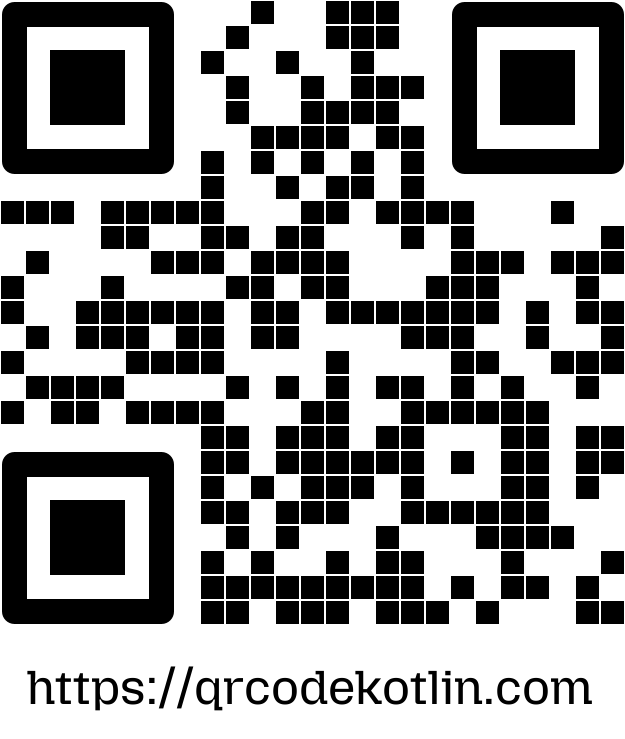
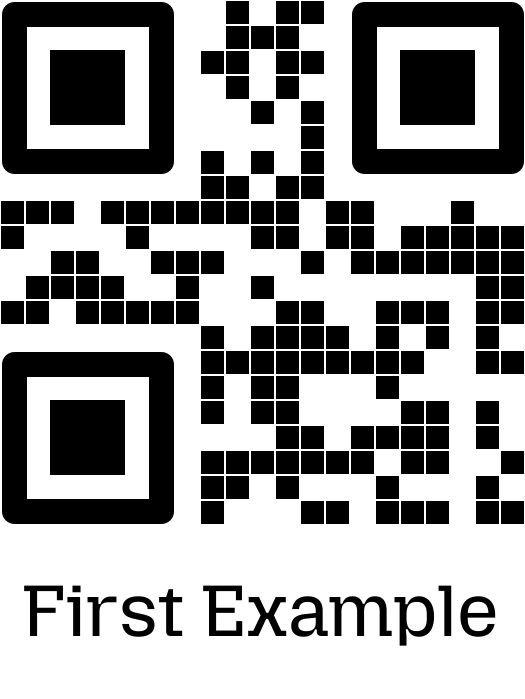
feat(fitIntoArea-fix): Fixing example 08

diff --git a/examples/kotlin/src/main/kotlin/Example08-TextCaption.kt b/examples/kotlin/src/main/kotlin/Example08-TextCaption.kt
@@ -13,12 +13,13 @@ import kotlin.math.max
 fun main() {
     // ----------------------------------
 
-    val firstQRCode = QRCode.ofSquares().build("First Example")
-    val firstQRCodeCanvas = firstQRCode.render().nativeImage() as BufferedImage
-    val firstQRCodeWidth = firstQRCodeCanvas.width
-    firstQRCodeCanvas.height
-    val captionTextGraphics2d = firstQRCodeCanvas.createGraphics()
-    val (captionTextWidth, captionTextHeight) = fitText(firstQRCode.data, firstQRCodeWidth, captionTextGraphics2d)
+    val qrCodeText = "First Example"
+    val qrCode = QRCode.ofSquares().build(qrCodeText)
+    val qrCodeCanvas = qrCode.render().nativeImage() as BufferedImage
+    val qrCodeWidth = qrCodeCanvas.width
+    val qrCodeHeight = qrCodeCanvas.height
+    val captionTextGraphics2d = qrCodeCanvas.createGraphics()
+    val (captionTextWidth, captionTextHeight) = fitText(qrCode.data, qrCodeWidth, captionTextGraphics2d)
 
     val canvasCaption = BufferedImage(
         max(qrCodeWidth, captionTextWidth),
@@ -29,32 +30,6 @@ fun main() {
             drawImage(qrCodeCanvas, 0, 0, null)
 
             font = captionTextGraphics2d.font
-            paint = Color.BLACK
-            background = Color.BLACK
-            setRenderingHint(RenderingHints.KEY_TEXT_ANTIALIASING, RenderingHints.VALUE_TEXT_ANTIALIAS_ON)
-            drawString(qrCodeText, qrCodeWidth / 2 - captionTextWidth / 2, qrCodeHeight + captionTextHeight / 2 + fontMetrics.ascent)
-        }
-    }
-
-    // ----------------------------------
-
-    val customFontTextGraphics2d = qrCodeCanvas.createGraphics()
-        .apply { font = loadFont("MozillaHeadline-Regular.ttf") }
-    val (customFontTextWidth, customFontTextHeight) = fitText(
-        qrCodeText,
-        qrCodeWidth,
-        customFontTextGraphics2d,
-    )
-
-    BufferedImage(
-        max(qrCodeWidth, customFontTextWidth),
-        qrCodeHeight + customFontTextHeight * 2,
-        BufferedImage.TYPE_INT_ARGB,
-    ).also {
-        it.createGraphics().apply {
-            drawImage(qrCodeCanvas, 0, 0, null)
-
-            font = customFontTextGraphics2d.font
             paint = Color.BLACK
             background = Color.BLACK
             setRenderingHint(RenderingHints.KEY_TEXT_ANTIALIASING, RenderingHints.VALUE_TEXT_ANTIALIAS_ON)
@@ -87,8 +62,6 @@ fun main() {
             drawString(qrCodeText, qrCodeWidth / 2 - captionTextWidth / 2, qrCodeHeight + captionTextHeight / 2 + fontMetrics.ascent)
         }
     }
-
-    // ----------------------------------
 
     FileOutputStream("examples/kotlin/examples-results/example08-caption.png").use {
         ImageIO.write(
